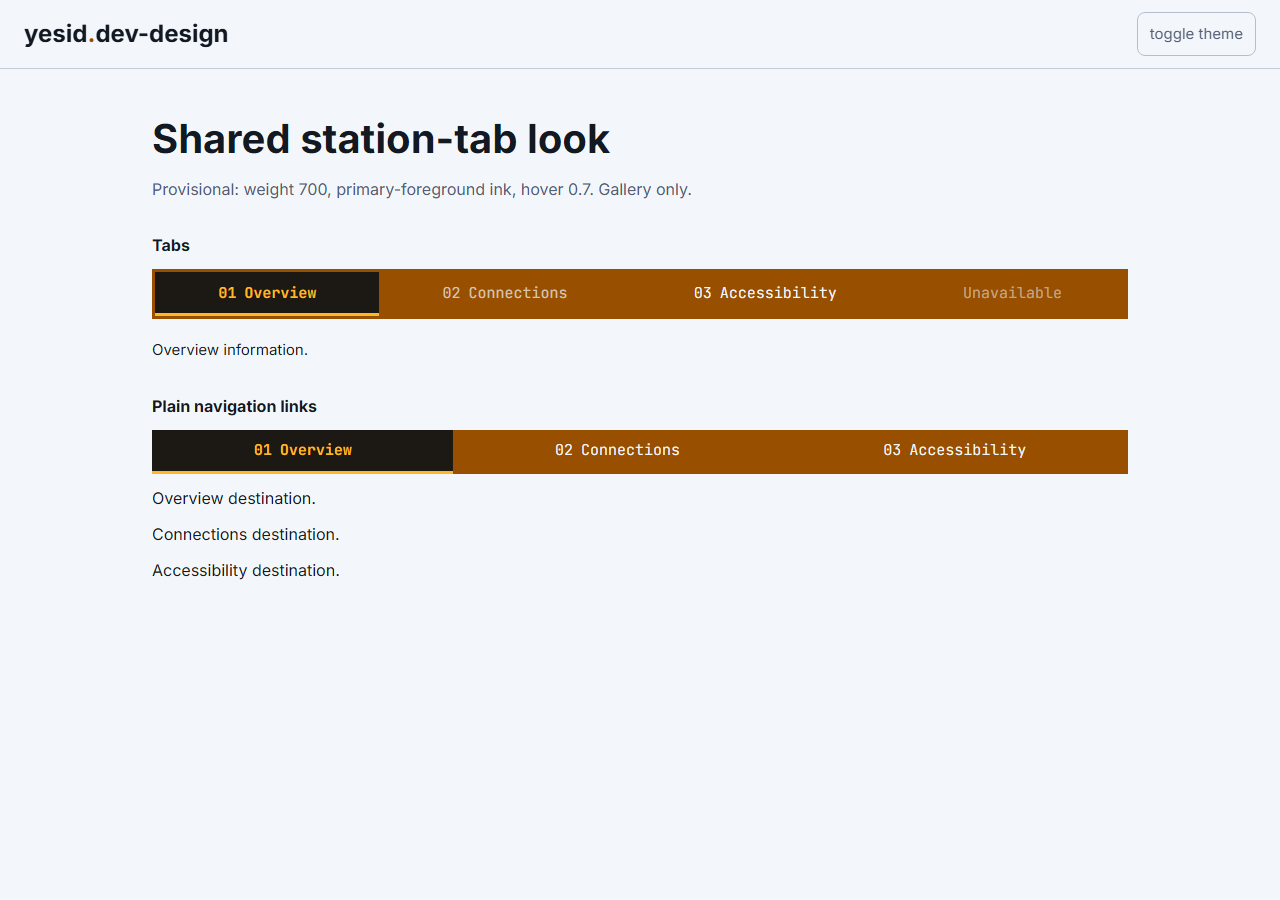
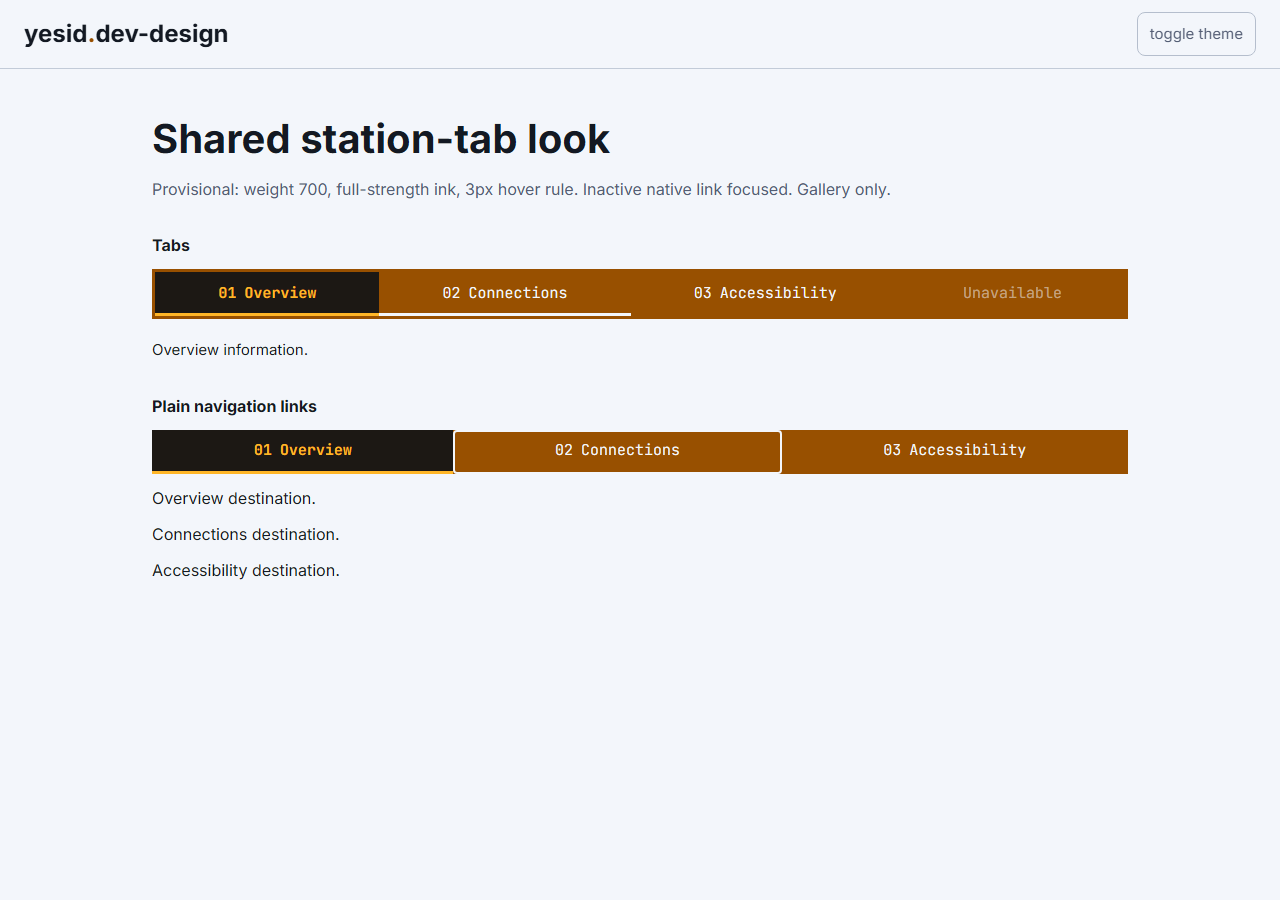
fix(ui): preserve station tab contrast on hover and focus

Changed region(s): [[0.25, 0.1867, 0.6875, 0.2178], [0.3125, 0.3111, 0.4688, 0.3733]]

diff --git a/apps/gallery/tests/browser/station-tabs.spec.ts b/apps/gallery/tests/browser/station-tabs.spec.ts
@@ -1,4 +1,47 @@
 import { expect, test } from '@playwright/test';
+import AxeBuilder from '@axe-core/playwright';
+import { ratio } from '@yesid/gates';
+
+test('hovered station labels keep readable rendered contrast in both compositions @theme', async ({ page }, testInfo) => {
+	await page.goto('/station-tabs');
+	await expect(page.locator('html')).toHaveAttribute('data-theme', testInfo.project.name);
+	await page.evaluate(() => document.fonts.ready);
+	for (const [selector, control] of [
+		['[role="tablist"]', page.getByRole('tab', { name: '02 Connections' })],
+		['nav.station-tabs', page.getByRole('link', { name: '02 Connections' })],
+	] as const) {
+		await control.hover();
+		const result = await new AxeBuilder({ page }).include(selector).withRules(['color-contrast']).analyze();
+		expect(result.violations, JSON.stringify(result.violations)).toEqual([]);
+		await expect(control).toHaveCSS('opacity', '1');
+		const ink = await control.evaluate((element) => getComputedStyle(element).color);
+		await expect(control).toHaveCSS('border-bottom-color', ink);
+		await expect(control).toHaveCSS('border-bottom-width', '3px');
+	}
+});
+
+test('keyboard focus on inactive and active native links contrasts with their surfaces @theme', async ({ page }, testInfo) => {
+	await page.goto('/station-tabs');
+	await expect(page.locator('html')).toHaveAttribute('data-theme', testInfo.project.name);
+	const links = page.getByRole('navigation', { name: 'Station pages' }).getByRole('link');
+	await links.first().focus();
+	await page.keyboard.press('Tab');
+	await expect(links.nth(1)).toBeFocused();
+	await expect(links.nth(1)).not.toHaveAttribute('aria-current', 'page');
+	for (const link of [links.nth(1), links.first()]) {
+		await link.focus();
+		await expect(link).toHaveCSS('outline-style', 'solid');
+		const colors = await link.evaluate((element) => {
+			const style = getComputedStyle(element);
+			const hex = (color: string) => '#' + color.match(/\d+/g)!.slice(0, 3)
+				.map((value) => Number(value).toString(16).padStart(2, '0')).join('');
+			const background = style.backgroundColor === 'rgba(0, 0, 0, 0)'
+				? getComputedStyle(element.closest('nav')!).backgroundColor : style.backgroundColor;
+			return { outline: hex(style.outlineColor), background: hex(background) };
+		});
+		expect(ratio(colors.outline, colors.background)).toBeGreaterThanOrEqual(3);
+	}
+});
 
 test('station signage shares native and Tabs styling while preserving selection and focus', async ({ page }) => {
 	await page.goto('/station-tabs');
@@ -38,17 +81,18 @@ test('station signage respects theme, independent overrides and reduced motion @
 	await expect(page.getByRole('tab', { name: '01 Overview' })).toHaveCSS('color', colors.ink);
 	await expect(page.getByRole('tab', { name: '01 Overview' })).toHaveCSS('background-color', colors.background);
 	await inactive.hover();
-	await expect(inactive).toHaveCSS('opacity', '0.7');
+	await expect(inactive).toHaveCSS('opacity', '1');
 	await expect(active).toHaveCSS('opacity', '1');
 	await rail.evaluate((element) => {
 		element.style.setProperty('--station-tab-active-weight', '800');
 		element.style.setProperty('--station-tab-ink', 'rgb(25, 25, 25)');
-		element.style.setProperty('--station-tab-hover-opacity', '0.9');
+		element.style.setProperty('--station-tab-hover-rule-color', 'transparent');
 		element.style.setProperty('--size-tap-min', '52px');
 	});
 	await expect(active).toHaveCSS('font-weight', '800');
 	await expect(inactive).toHaveCSS('color', 'rgb(25, 25, 25)');
-	await expect(inactive).toHaveCSS('opacity', '0.9');
+	await expect(inactive).toHaveCSS('border-bottom-color', 'rgba(0, 0, 0, 0)');
+	await expect(inactive).toHaveCSS('opacity', '1');
 	await expect(active).toHaveCSS('min-height', '52px');
 	await page.emulateMedia({ reducedMotion: 'reduce' });
 	await expect(inactive).toHaveCSS('transition-duration', '0s');

diff --git a/packages/ui/station-tabs.css b/packages/ui/station-tabs.css
@@ -35,7 +35,7 @@
 	text-decoration: none;
 	cursor: pointer;
 	box-shadow: none;
-	transition: opacity var(--duration-fast) var(--ease-default);
+	transition: border-bottom-color var(--duration-fast) var(--ease-default);
 }
 
 /* Suppress the generic Tabs line marker: signage uses its own border. */
@@ -51,11 +51,11 @@
 }
 
 .station-tab:not([data-state='active'], [aria-current='page']):hover {
-	opacity: var(--station-tab-hover-opacity, 0.7);
+	border-bottom-color: var(--station-tab-hover-rule-color, currentColor);
 }
 
 .station-tab:focus-visible {
-	outline: 2px solid var(--ring);
+	outline: 2px solid currentColor;
 	outline-offset: -2px;
 	border-radius: var(--radius-sm);
 }

diff --git a/docs/evidence/connect-station-tabs/README.md b/docs/evidence/connect-station-tabs/README.md
@@ -2,14 +2,16 @@
 
 Captured 2026-11-04 in Chromium 149 (Playwright 1.61.1), reduced motion, at widths 1280 and
 390 CSS px, with Gallery's bundled fonts. Each filename gives the look, theme and width.
-The first inactive Tabs trigger is hovered. The native-link row is at rest.
+The first inactive Tabs trigger is hovered. In the refreshed `new-*.png` screenshots, the
+first inactive native link has keyboard focus. The historical old-look native-link rows are at rest.
 
 - `old-transit-*.png`: reconstruction of EntityDetail's station-tab CSS from Transit
   `b5b283781a6fe6ab12c424dd685bbb854d515962`.
 - `old-site-*.png`: reconstruction of StationTabs' station-tab CSS from yesid.dev
   `2892360e7689e2de6ab0ff13d7ecd8d9d8436092`.
 - `new-*.png`: the proposed shared CSS on Gallery `/station-tabs`, based on design
-  `dde11246c41cb3da36b6850ebdeb473b786cc465` plus this PR.
+  `dde11246c41cb3da36b6850ebdeb473b786cc465` plus this PR's accessibility corrections: full-strength
+  hover text with a 3px bottom rule, and an inset outline in the focused link's text color.
 
 The old screenshots apply the source tab rules to the same neutral Gallery content, adapting
 the `.active` selector to the fixture's semantic state attributes. They retain Gallery's rail
@@ -19,4 +21,7 @@ are the real Gallery implementation. Product copies were read only. Consumer reg
 and the remaining adoption limits are in `docs/migrations/station-tabs.md`.
 
 The default remains provisional: active weight 700, inactive ink `--primary-foreground`,
-inactive hover opacity 0.7, minimum height from `--size-tap-min`. No owner acceptance is implied.
+full-strength hover text with a 3px bottom rule, minimum height from `--size-tap-min`.
+`--station-tab-hover-rule-color` controls the hover rule independently of weight and ink.
+The original opacity 0.7 proposal failed rendered text contrast in both themes and was replaced.
+No owner acceptance is implied.

diff --git a/docs/migrations/station-tabs.md b/docs/migrations/station-tabs.md
@@ -6,13 +6,16 @@ Use bits-ui's `data-state="active"` for Tabs and `aria-current="page"` for navig
 The module supplies no routing, selection, centering, scrolling, swipe guard or persistence.
 
 Provisional defaults awaiting the owner: active weight 700, inactive ink `--primary-foreground`,
-inactive hover opacity 0.7, minimum height `--size-tap-min`. The three visual choices can be
+an inactive 3px bottom rule on hover with full-strength text, minimum height `--size-tap-min`.
+The three visual choices can be
 changed independently through `--station-tab-active-weight`, `--station-tab-ink` and
-`--station-tab-hover-opacity`. Active signage colors remain theme-independent.
+`--station-tab-hover-rule-color` (defaults to `currentColor`; use `transparent` to hide it).
+Active signage colors remain theme-independent. Focus uses a 2px inset outline in the control's
+current text color, contrasting with inactive and active surfaces in both themes.
 
 Keep product strip geometry and overflow wrappers. Do not retain conflicting local visual
-rules or inline opacity on the controls: inline opacity would override the shared hover rule.
-Product-specific distance opacity must allow the inactive hover rule to take precedence.
+rules or opacity on the controls: dimming the text can fail contrast in either theme.
+Product-specific distance effects must preserve text contrast, including on hover and focus.
 
 ## Consumer checks at the bump
 

diff --git a/packages/ui/README.md b/packages/ui/README.md
@@ -189,11 +189,13 @@ opacity and swipe guards remain in the product. Remove the previous local look w
 </nav>
 ```
 
-The shared defaults are active weight 700, inactive ink `--primary-foreground`, inactive hover
-opacity 0.7 and minimum tap height `--size-tap-min`. Active chips use `--signage-bg` and
+The shared defaults are active weight 700, inactive ink `--primary-foreground`, a 3px bottom rule
+on inactive hover (with text at full strength), and minimum tap height `--size-tap-min`. Active chips use `--signage-bg` and
 `--signage-text` in both themes. Set `--station-tab-active-weight`, `--station-tab-ink` and
-`--station-tab-hover-opacity` on the rail to change those three decisions independently.
-Reduced motion removes the opacity transition; keyboard focus keeps an inset ring.
+`--station-tab-hover-rule-color` on the rail to change those three decisions independently.
+The hover rule defaults to `currentColor`; `transparent` hides it without dimming the text.
+Reduced motion removes the rule-color transition. Keyboard focus uses a 2px inset outline in
+the control's current text color so it contrasts with both the inactive rail and active chip.
 Gallery's `/station-tabs` renders both compositions. Ordinary Tabs variants stay unchanged.
 
 The package targets bits-ui's real `data-state="active"` selector and rejects the dead

diff --git a/.changes/connect-station-tab-look.md b/.changes/connect-station-tab-look.md
@@ -5,5 +5,7 @@
 Add the opt-in `@yesid/ui/station-tabs.css` signage look for Tabs triggers and native navigation
 links. Import it after base.css and apply `station-tabs` to the rail and `station-tab` to controls.
 Active state follows bits-ui's `data-state="active"` or a link's `aria-current="page"`.
-Weight, inactive ink and inactive hover opacity remain independently adjustable CSS variables.
+Weight, inactive ink and inactive hover-rule color remain independently adjustable CSS variables.
+Hover keeps full-strength text and shows the existing 3px bottom rule. The inset focus outline
+uses the control's text color for visible keyboard focus on both inactive rails and active chips.
 Existing Tabs variants are unchanged. Product copy removal and regression checks happen at adoption.

diff --git a/api-reports/ui.api.md b/api-reports/ui.api.md
@@ -142,7 +142,7 @@
 
 ## Direct public assets
 
[4 lines of base64/hex data omitted]
 
